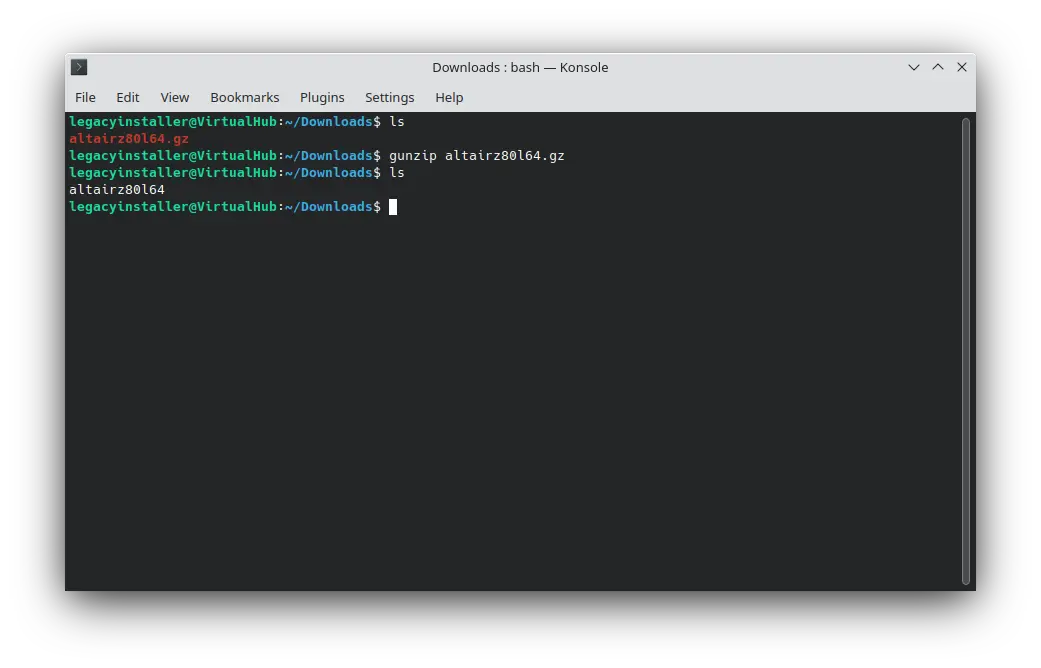
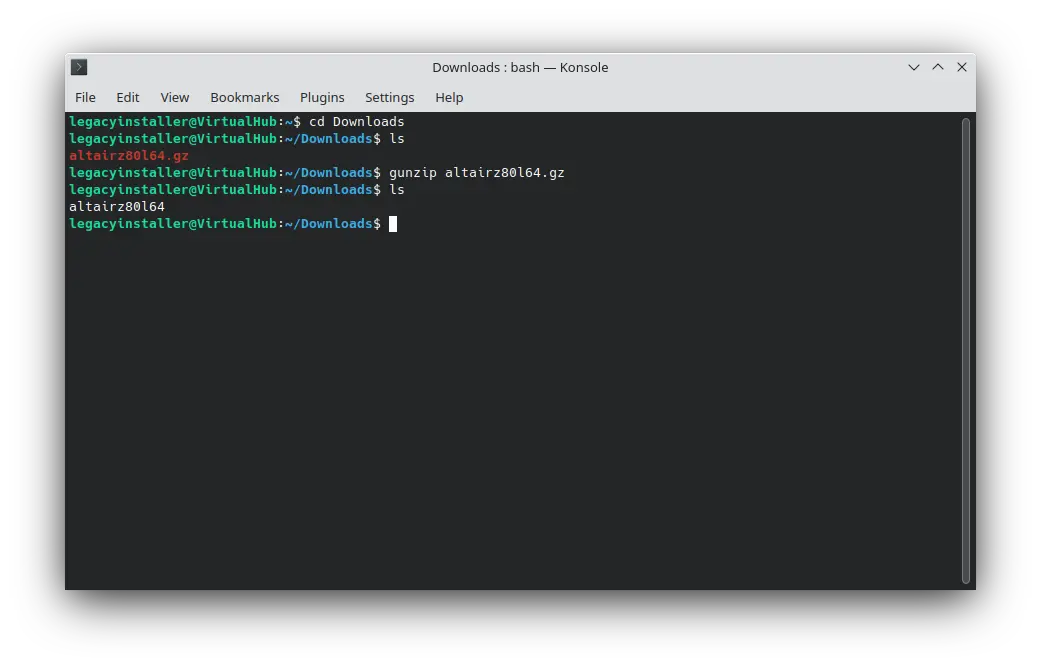
Update #9

Changed region(s): [[0.0615, 0.1499, 0.5533, 0.3598]]

diff --git a/content/posts/altair-z80.md b/content/posts/altair-z80.md
@@ -4,7 +4,7 @@ date: 2022-10-06T19:18:00+05:30
 draft: false
 featuredImage: "/images/2022/10/07/banner.webp"
 featuredImagePreview: "/images/2022/10/07/banner.webp"
-tags: ["Emulator", "Source",]
+tags: ["Emulator", "Executable",]
 categories: ["Emulator"]
 ---
 
@@ -34,32 +34,52 @@ AltairZ80 emulator is not available in Kubuntu repositories. It is also not avai
 
 For other systems, you can download an executable from here: <https://schorn.ch/altair_beta.php>
 
-Now run the following command to extract the executable:
+We need to use the command line to install the emulator. Start Konsole. Now use the following command to move to the `Downloads` folder:
+
+```bash
+cd Downloads
+```
+You can run the `ls` command to verify that the file you downloaded it there. Now run the following command to extract the executable:
 
 ```bash
 gunzip altairz80l64.gz
 ```
 
+Now run the `ls` command again. The `.gz` extension should have been removed. This means the file is extracted.
+
 {{< image src="/images/2022/10/07/AltairZ80-1.webp" alt="Extract AltairZ80 archive" caption="gunzip altairz80l64.gz" >}}
+
+Now we will make the file executable. Run the following command to make it executable:
+
+```bash
+chmod +x altairz80l64
+```
+
+{{< image src="/images/2022/10/07/AltairZ80-2.webp" alt="Make the AltairZ80 file executable" caption="chmod +x altairz80l64" >}}
 
 Now we will place the executable in `/usr/local/bin` so that we can call it without specifying its path:
 
 ```bash
-sudo cp altairz80l64 /usr/local/bin/altairz80
+sudo mv altairz80l64 /usr/local/bin/altairz80
 ```
 
-{{< image src="/images/2022/10/07/AltairZ80-2.webp" alt="Install AltairZ80 executable" caption="sudo cp altairz80l64 /usr/local/bin/altairz80" >}}
+Enter you password when asked to do so.
 
+{{< image src="/images/2022/10/07/AltairZ80-3.webp" alt="Install AltairZ80 executable" caption="sudo mv altairz80l64 /usr/local/bin/altairz80" >}}
 
-Enter you password when asked to do so. Now you can run AltairZ80. Just run this command:
+We have installed AltairZ80. Now you can start it. Just run this command:
 
 ```bash
 altairz80
 ```
 
-{{< image src="/images/2022/10/07/AltairZ80-3.webp" alt="AltairZ80" caption="altairz80" >}}
+{{< image src="/images/2022/10/07/AltairZ80-4.webp" alt="AltairZ80" caption="altairz80" >}}
 
 That's it. We installed Altairz80 emulator. Now you can follow the tutorials on [VirtualHub](https://virtualhub.eu.org) which uses this emulator.
+
+To exit the emulator, type `exit` and press enter.
+
+{{< image src="/images/2022/10/07/AltairZ80-5.webp" alt="Exit AltairZ80" caption="exit" >}}
 
 ### Windows
 
@@ -67,11 +87,13 @@ That's it. We installed Altairz80 emulator. Now you can follow the tutorials on 
 You should use Linux. If you don't know how to install a Linux distro, see [our tutorials on how to install Kubuntu](https://setup.virtualhub.eu.org/categories/os/), a beginner-friendly distro.
 {{< /admonition>}}
 
-You do not need to install anything for following the tutorials which use the AltairZ80 emulator. All the archives you download have an executable for Windows and a batch file. Run the batch file and AltairZ80 will start with the OS you wanted to install on it.
+You can download an archive for windows from [here](https://schorn.ch/cpm/zip/beta/altairz80.zip) ( [local copy](https://link.storjshare.io/ju7vgjnsfdotdbdrinmxfbcfpx5q/virtualhub-setup%2FAltairZ80%2Faltairz80.zip?download=true) / [IPFS](https://dweb.link/ipfs/bafybeid5wwcyu76byljb5gfnwnztimcc7bxt4pbodid4mip3wnhp7qvsk4) ). Now extract the archive. Inside, you will find two `.exe` files. One is for 64 bit and one for 32 bit. Copy the respective file for your system to somewhere and delete the other one. You do not need to install anything. See the "Windows" section of the respective tutorial on [VirtualHub](https://virtualhub.eu.org) to know how to use it.
+
+There are also some documentation included in the archive. If you want, you can read them, else you can delete them.
 
 ## Documentation
 
-You can download the AltairZ80 guide from here:
+The linux archive only contains a single executable. It does not include any documentation files. If you want to read the AltairZ80 guide, you can download the Windows archive from [above](#windows). It contains the guide in PDF format. You can also download the same PDF file from here:
 
 - [AltairZ80 Documentation](https://link.storjshare.io/jv2jesw2rhgalxby3owlr3dudptq/virtualhub-setup%2FAltairZ80%2Faltairz80_doc.pdf?download=true) ( [IPFS](https://dweb.link/ipfs/bafkreiggumjovndpcubxzeseaesaeyqjmci6urxzlmjpyvuzaaujj5cpzy) )
 
